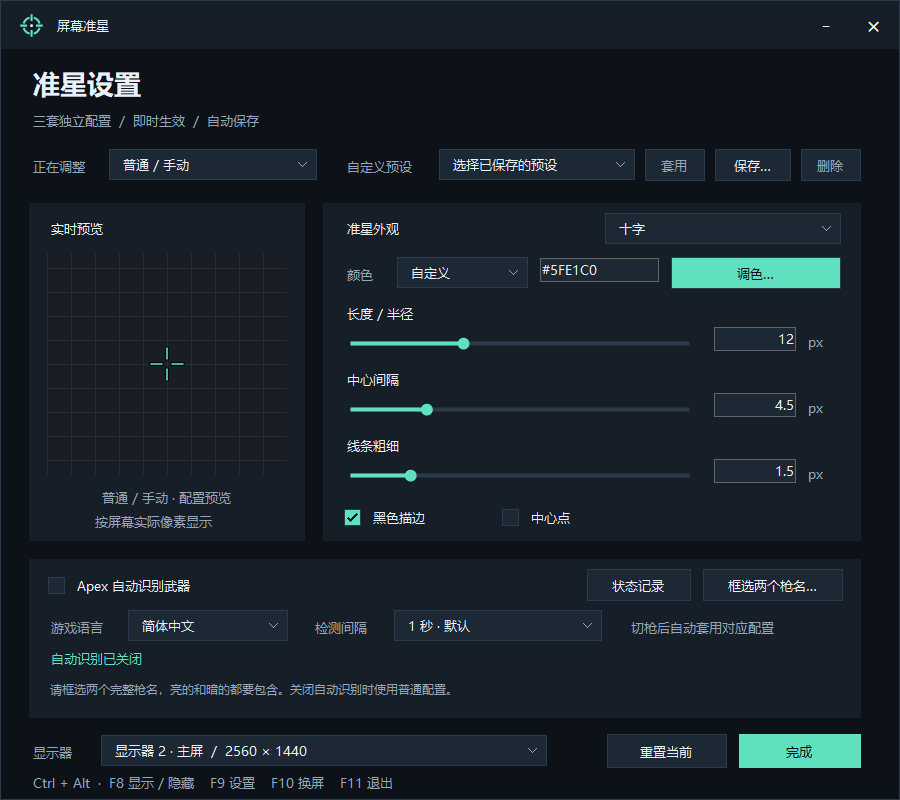
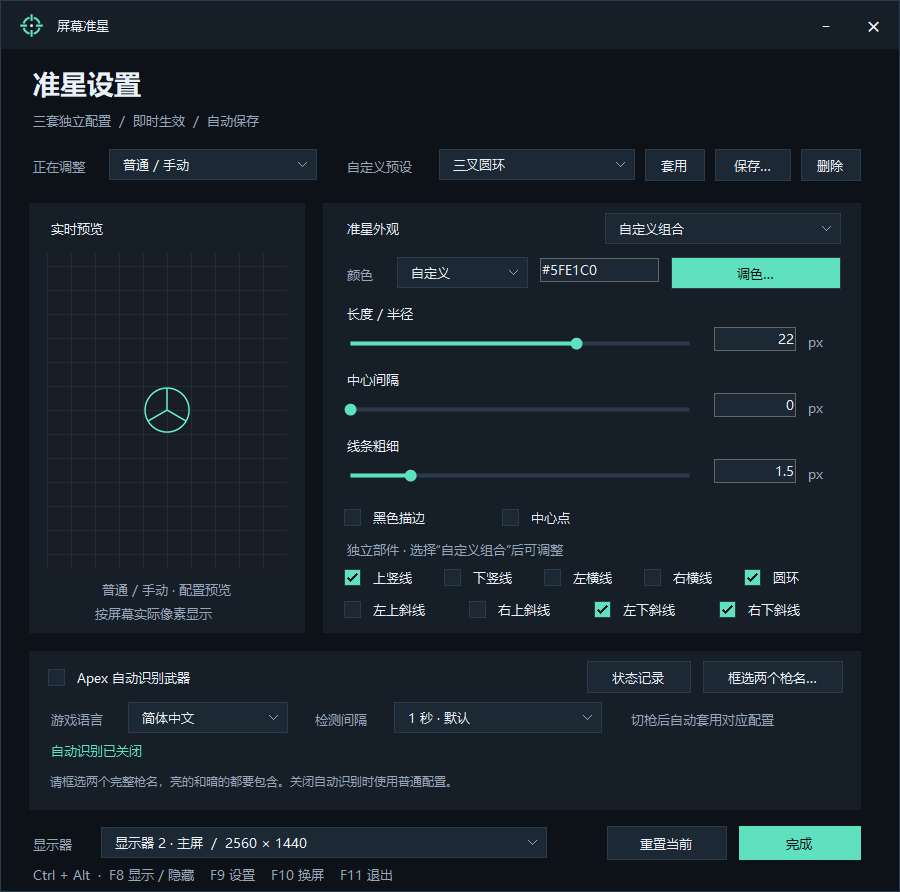
feat: 支持准星部件显隐和奔驰三叉样式

diff --git a/source/SettingsWindow.cs b/source/SettingsWindow.cs
@@ -12,6 +12,9 @@ namespace ScreenCrosshair
         readonly ComboBox profile = new DarkComboBox(), presets = new DarkComboBox(), shape = new DarkComboBox(), color = new DarkComboBox(), monitor = new DarkComboBox(), language = new DarkComboBox(), interval = new DarkComboBox();
         readonly SliderRow length = new SliderRow("长度 / 半径", 2, 32), gap = new SliderRow("中心间隔", 0, 20), thickness = new SliderRow("线条粗细", .1, 8);
         readonly CheckBox outline = new DarkCheckBox(), dot = new DarkCheckBox(), automatic = new DarkCheckBox();
+        readonly CheckBox[] parts = new CheckBox[9];
+        readonly int[] partFlags = { CrosshairParts.Top, CrosshairParts.Bottom, CrosshairParts.Left, CrosshairParts.Right, CrosshairParts.Ring,
+            CrosshairParts.TopLeft, CrosshairParts.TopRight, CrosshairParts.BottomLeft, CrosshairParts.BottomRight };
         readonly TextBox hex = Theme.Input(new Rectangle(481, 84, 104, 28));
         readonly Button pickColor, chooseRegion, deletePreset, applyPreset;
         readonly Label recognitionStatus = new Label(), regionStatus = new Label(), previewTitle = new Label();
@@ -23,8 +26,8 @@ namespace ScreenCrosshair
 
         public SettingsWindow(Overlay owner)
         {
-            overlay = owner; Text = "屏幕准星"; Icon = owner.Icon; ClientSize = new Size(900, 800);
-            var canvas = new Panel { Size = new Size(876, 746), BackColor = Theme.Background }; Body.Controls.Add(canvas);
+            overlay = owner; Text = "屏幕准星"; Icon = owner.Icon; ClientSize = new Size(900, 892);
+            var canvas = new Panel { Size = new Size(876, 838), BackColor = Theme.Background }; Body.Controls.Add(canvas);
             var heading = Theme.Label("准星设置", new Rectangle(26, 15, 540, 38));
             heading.Font = new Font(Font.FontFamily, 20F, FontStyle.Bold); canvas.Controls.Add(heading);
             canvas.Controls.Add(Theme.Label("三套独立配置  /  即时生效  /  自动保存", new Rectangle(28, 58, 600, 26), true));
@@ -41,16 +44,17 @@ namespace ScreenCrosshair
             save.Click += delegate { SavePresetDialog(); };
             deletePreset.Click += delegate { DeletePresetDialog(); };
 
-            var previewCard = Card(canvas, new Rectangle(28, 154, 276, 338));
+            var previewCard = Card(canvas, new Rectangle(28, 154, 276, 430));
             previewCard.Controls.Add(Theme.Label("实时预览", new Rectangle(18, 12, 200, 27)));
-            preview = new Preview(owner.Config) { Bounds = new Rectangle(18, 50, 240, 222) }; previewCard.Controls.Add(preview);
-            previewTitle.Bounds = new Rectangle(18, 283, 240, 23); previewTitle.TextAlign = ContentAlignment.MiddleCenter; previewTitle.ForeColor = Theme.Muted; previewCard.Controls.Add(previewTitle);
-            previewCard.Controls.Add(Theme.Label("按屏幕实际像素显示", new Rectangle(62, 307, 180, 22), true));
+            preview = new Preview(owner.Config) { Bounds = new Rectangle(18, 50, 240, 314) }; previewCard.Controls.Add(preview);
+            previewTitle.Bounds = new Rectangle(18, 375, 240, 23); previewTitle.TextAlign = ContentAlignment.MiddleCenter; previewTitle.ForeColor = Theme.Muted; previewCard.Controls.Add(previewTitle);
+            previewCard.Controls.Add(Theme.Label("按屏幕实际像素显示", new Rectangle(62, 399, 180, 22), true));
 
-            var appearance = Card(canvas, new Rectangle(322, 154, 538, 338));
+            var appearance = Card(canvas, new Rectangle(322, 154, 538, 430));
             appearance.Controls.Add(Theme.Label("准星外观", new Rectangle(20, 12, 200, 27)));
             Theme.Combo(shape, new Rectangle(282, 10, 236, 32), appearance);
-            shape.Items.AddRange(new object[] { "十字", "圆点", "圆环", "圆环＋中心点", "十字（无下方竖线）" });
+            shape.Name = "CrosshairShape";
+            shape.Items.AddRange(new object[] { "十字", "圆点", "圆环", "圆环＋中心点", "十字（无下方竖线）", "自定义组合", "三叉（奔驰）", "X 形" });
             appearance.Controls.Add(Theme.Label("颜色", new Rectangle(20, 57, 48, 28), true));
             Theme.Combo(color, new Rectangle(74, 54, 131, 32), appearance); color.Items.AddRange(Settings.ColorNames); color.Items.Add("自定义");
             hex.Name = "ColorHex"; hex.SetBounds(217, 55, 119, 28); hex.MaxLength = 7; hex.AccessibleName = "自定义颜色 HEX"; appearance.Controls.Add(hex);
@@ -60,7 +64,15 @@ namespace ScreenCrosshair
             outline.Text = "黑色描边"; outline.SetBounds(20, 301, 145, 27); appearance.Controls.Add(outline);
             dot.Text = "中心点"; dot.SetBounds(178, 301, 125, 27); appearance.Controls.Add(dot);
 
-            var autoPanel = Card(canvas, new Rectangle(28, 510, 832, 159));
+            appearance.Controls.Add(Theme.Label("独立部件 · 选择“自定义组合”后可调整", new Rectangle(20, 335, 494, 23), true));
+            string[] partNames = { "上竖线", "下竖线", "左横线", "右横线", "圆环", "左上斜线", "右上斜线", "左下斜线", "右下斜线" };
+            for (int i = 0; i < parts.Length; i++)
+            {
+                var check = new DarkCheckBox { Name = "Part" + partFlags[i], Text = partNames[i], Bounds = new Rectangle(20 + (i < 5 ? i * 100 : (i - 5) * 125), i < 5 ? 361 : 393, i < 5 ? 98 : 120, 26) };
+                parts[i] = check; appearance.Controls.Add(check); check.CheckedChanged += UpdateSettings;
+            }
+
+            var autoPanel = Card(canvas, new Rectangle(28, 602, 832, 159));
             automatic.Text = "Apex 自动识别武器"; automatic.SetBounds(18, 12, 258, 28); autoPanel.Controls.Add(automatic);
             var history = Theme.Button("状态记录", new Rectangle(558, 10, 104, 32)); history.Click += delegate { ShowRecognitionHistory(); }; autoPanel.Controls.Add(history);
             chooseRegion = Theme.Button("框选两个枪名…", new Rectangle(674, 10, 140, 32)); autoPanel.Controls.Add(chooseRegion);
@@ -72,16 +84,28 @@ namespace ScreenCrosshair
             recognitionStatus.SetBounds(18, 90, 796, 28); recognitionStatus.ForeColor = Theme.Accent; autoPanel.Controls.Add(recognitionStatus);
             regionStatus.SetBounds(18, 122, 796, 24); regionStatus.ForeColor = Theme.Muted; regionStatus.Font = new Font(Font.FontFamily, 8.5F); autoPanel.Controls.Add(regionStatus);
 
-            canvas.Controls.Add(Theme.Label("显示器", new Rectangle(28, 689, 66, 28), true));
-            Theme.Combo(monitor, new Rectangle(100, 686, 446, 32), canvas);
-            var reset = Theme.Button("重置当前", new Rectangle(606, 685, 120, 34)); reset.Click += delegate { overlay.Config.ResetProfile(EditingKind); Reload(); overlay.Changed(false); }; canvas.Controls.Add(reset);
-            var done = Theme.Button("完成", new Rectangle(738, 685, 122, 34), true); done.Click += delegate { Close(); }; canvas.Controls.Add(done);
+            canvas.Controls.Add(Theme.Label("显示器", new Rectangle(28, 781, 66, 28), true));
+            Theme.Combo(monitor, new Rectangle(100, 778, 446, 32), canvas);
+            var reset = Theme.Button("重置当前", new Rectangle(606, 777, 120, 34)); reset.Click += delegate { overlay.Config.ResetProfile(EditingKind); Reload(); overlay.Changed(false); }; canvas.Controls.Add(reset);
+            var done = Theme.Button("完成", new Rectangle(738, 777, 122, 34), true); done.Click += delegate { Close(); }; canvas.Controls.Add(done);
             string shortcuts = owner.HotkeyErrors.Count == 0 ? "Ctrl + Alt  ·  F8 显示 / 隐藏    F9 设置    F10 换屏    F11 退出"
                 : "快捷键被占用：" + string.Join("、", owner.HotkeyErrors.ToArray()) + "；请使用托盘菜单。";
-            canvas.Controls.Add(Theme.Label(shortcuts, new Rectangle(28, 722, 825, 23), true));
+            canvas.Controls.Add(Theme.Label(shortcuts, new Rectangle(28, 814, 825, 23), true));
             // The editor selection is independent of whichever profile recognition is displaying in the game.
             profile.SelectedIndexChanged += delegate { if (!loading) Reload(); };
-            shape.SelectedIndexChanged += UpdateSettings; monitor.SelectedIndexChanged += UpdateSettings;
+            shape.SelectedIndexChanged += delegate(object sender, EventArgs args)
+            {
+                if (loading) return;
+                if (shape.SelectedIndex == 5 && EditingStyle.Shape != 5)
+                {
+                    // Start custom editing from the visible template, including the three-spoke angles and forced dot.
+                    CrosshairStyle current = EditingStyle; current.CustomParts = current.PartsForShape(current.Shape);
+                    current.DiagonalAngle = current.AngleForShape(current.Shape);
+                    loading = true; dot.Checked = current.CenterDot || current.Shape == 1 || current.Shape == 3; RefreshParts(current.CustomParts); loading = false;
+                }
+                UpdateSettings(sender, args);
+            };
+            monitor.SelectedIndexChanged += UpdateSettings;
             language.SelectedIndexChanged += UpdateSettings; interval.SelectedIndexChanged += UpdateSettings; automatic.CheckedChanged += UpdateSettings;
             length.ValueChanged += UpdateSettings; gap.ValueChanged += UpdateSettings; thickness.ValueChanged += UpdateSettings;
             outline.CheckedChanged += UpdateSettings; dot.CheckedChanged += UpdateSettings;
@@ -174,11 +198,21 @@ namespace ScreenCrosshair
             loading = false; EnableFields(); preview.Invalidate();
         }
         void EnableFields()
-        { length.Enabled = shape.SelectedIndex != 1; gap.Enabled = shape.SelectedIndex == 0 || shape.SelectedIndex == 4; dot.Enabled = shape.SelectedIndex != 1 && shape.SelectedIndex != 3; }
+        {
+            length.Enabled = shape.SelectedIndex != 1; gap.Enabled = shape.SelectedIndex == 0 || shape.SelectedIndex >= 4;
+            dot.Enabled = shape.SelectedIndex != 1 && shape.SelectedIndex != 3;
+            bool previous = loading; loading = true;
+            RefreshParts(EditingStyle.PartsForShape(EditingStyle.Shape));
+            foreach (CheckBox part in parts) part.Enabled = shape.SelectedIndex == 5;
+            loading = previous;
+        }
+        void RefreshParts(int value)
+        { for (int i = 0; i < parts.Length; i++) parts[i].Checked = (value & partFlags[i]) != 0; }
         void UpdateSettings(object sender, EventArgs args)
         {
             if (loading) return; Settings s = overlay.Config; CrosshairStyle current = EditingStyle;
             current.Shape = shape.SelectedIndex; current.Length = length.Value; current.Gap = gap.Value; current.Thickness = thickness.Value;
+            if (current.Shape == 5) { current.CustomParts = 0; for (int i = 0; i < parts.Length; i++) if (parts[i].Checked) current.CustomParts |= partFlags[i]; }
             current.Outline = outline.Checked; current.CenterDot = dot.Checked;
             s.AutoDetect = automatic.Checked; s.OcrLanguage = language.SelectedIndex == 1 ? "en-US" : "zh-Hans-CN";
             s.ScanInterval = interval.SelectedIndex == 0 ? 500 : interval.SelectedIndex == 2 ? 2000 : 1000;

diff --git a/source/Crosshair.cs b/source/Crosshair.cs
@@ -9,7 +9,7 @@ using System.Windows.Forms;
 using System.Xml.Serialization;
 
 [assembly: System.Reflection.AssemblyTitle("屏幕准星")]
-[assembly: System.Reflection.AssemblyVersion("1.3.0.0")]
+[assembly: System.Reflection.AssemblyVersion("1.3.1.0")]
 
 namespace ScreenCrosshair
 {
@@ -24,6 +24,15 @@ namespace ScreenCrosshair
         [DllImport("user32.dll")] public static extern IntPtr GetForegroundWindow();
     }
 
+    public static class CrosshairParts
+    {
+        public const int Top = 1, Bottom = 2, Left = 4, Right = 8, Ring = 16;
+        public const int BottomLeft = 32, BottomRight = 64, TopLeft = 128, TopRight = 256;
+        public const int Cross = Top | Bottom | Left | Right;
+        public const int Diagonals = BottomLeft | BottomRight | TopLeft | TopRight;
+        public const int All = Cross | Ring | Diagonals;
+    }
+
     public class CrosshairStyle
     {
         public double Length = 8;
@@ -34,6 +43,19 @@ namespace ScreenCrosshair
         public bool Outline = true;
         public bool CenterDot = false;
         public string ColorHex = "";
+        public int CustomParts = CrosshairParts.Cross;
+        public double DiagonalAngle = 45;
+
+        public int PartsForShape(int shape)
+        {
+            if (shape == 5) return CustomParts;
+            if (shape == 6) return CrosshairParts.Top | CrosshairParts.BottomLeft | CrosshairParts.BottomRight;
+            if (shape == 7) return CrosshairParts.Diagonals;
+            if (shape == 4) return CrosshairParts.Top | CrosshairParts.Left | CrosshairParts.Right;
+            if (shape == 2 || shape == 3) return CrosshairParts.Ring;
+            return shape == 0 ? CrosshairParts.Cross : 0;
+        }
+        public double AngleForShape(int shape) { return shape == 6 ? 30 : shape == 5 ? DiagonalAngle : 45; }
 
         [XmlIgnore] public Color ForegroundColor
         {
@@ -42,19 +64,21 @@ namespace ScreenCrosshair
 
         public CrosshairStyle Copy(int shape)
         {
-            return new CrosshairStyle { Length = Length, Gap = Gap, Thickness = Thickness, Shape = shape, ColorIndex = ColorIndex, ColorHex = ColorHex, Outline = Outline, CenterDot = CenterDot };
+            return new CrosshairStyle { Length = Length, Gap = Gap, Thickness = Thickness, Shape = shape, ColorIndex = ColorIndex, ColorHex = ColorHex, Outline = Outline, CenterDot = CenterDot, CustomParts = CustomParts, DiagonalAngle = DiagonalAngle };
         }
 
         public void Apply(CrosshairStyle source)
         {
             Length = source.Length; Gap = source.Gap; Thickness = source.Thickness; Shape = source.Shape;
             ColorIndex = source.ColorIndex; ColorHex = source.ColorHex; Outline = source.Outline; CenterDot = source.CenterDot;
+            CustomParts = source.CustomParts; DiagonalAngle = source.DiagonalAngle;
         }
 
         public bool SameAppearance(CrosshairStyle other)
         {
             return other != null && Length == other.Length && Gap == other.Gap && Thickness == other.Thickness && Shape == other.Shape
-                && ColorIndex == other.ColorIndex && ColorHex == other.ColorHex && Outline == other.Outline && CenterDot == other.CenterDot;
+                && ColorIndex == other.ColorIndex && ColorHex == other.ColorHex && Outline == other.Outline && CenterDot == other.CenterDot
+                && CustomParts == other.CustomParts && DiagonalAngle == other.DiagonalAngle;
         }
 
         static double Dimension(double value, double min, double max, double fallback)
@@ -63,7 +87,8 @@ namespace ScreenCrosshair
         public void ValidateAppearance()
         {
             Length = Dimension(Length, 2, 32, 8); Gap = Dimension(Gap, 0, 20, 4); Thickness = Dimension(Thickness, 0.1, 8, 2);
-            Shape = Math.Max(0, Math.Min(4, Shape)); ColorIndex = Math.Max(0, Math.Min(Settings.Colors.Length - 1, ColorIndex));
+            Shape = Math.Max(0, Math.Min(7, Shape)); ColorIndex = Math.Max(0, Math.Min(Settings.Colors.Length - 1, ColorIndex));
+            CustomParts &= CrosshairParts.All; DiagonalAngle = Dimension(DiagonalAngle, 5, 85, 45);
             Color custom; ColorHex = Settings.TryParseColor(ColorHex, out custom) ? Settings.ToHex(custom) : "";
         }
     }
@@ -116,6 +141,7 @@ namespace ScreenCrosshair
             current.Length = defaults.Length; current.Gap = defaults.Gap; current.Thickness = defaults.Thickness;
             current.Shape = kind == WeaponKind.Shotgun ? 3 : kind == WeaponKind.Sniper ? 4 : 0;
             current.ColorIndex = 0; current.ColorHex = ""; current.Outline = true; current.CenterDot = false;
+            current.CustomParts = defaults.CustomParts; current.DiagonalAngle = defaults.DiagonalAngle;
         }
 
         public static bool TryParseColor(string text, out Color color)
@@ -192,13 +218,11 @@ namespace ScreenCrosshair
             float t = (float)s.Thickness, d = (float)s.Gap, n = (float)s.Length;
             // Keep old integer strokes aligned; fractional dimensions are resolved by alpha coverage in Rasterize.
             float half = t == (int)t ? (int)t / 2 : t / 2;
-            if (shape == 0 || shape == 4)
-            {
-                blocks.Add(new RectangleF(cx - half, cy - d - n, t, n));
-                if (shape != 4) blocks.Add(new RectangleF(cx - half, cy + d, t, n));
-                blocks.Add(new RectangleF(cx - d - n, cy - half, n, t));
-                blocks.Add(new RectangleF(cx + d, cy - half, n, t));
-            }
+            int parts = s.PartsForShape(shape);
+            if ((parts & CrosshairParts.Top) != 0) blocks.Add(new RectangleF(cx - half, cy - d - n, t, n));
+            if ((parts & CrosshairParts.Bottom) != 0) blocks.Add(new RectangleF(cx - half, cy + d, t, n));
+            if ((parts & CrosshairParts.Left) != 0) blocks.Add(new RectangleF(cx - d - n, cy - half, n, t));
+            if ((parts & CrosshairParts.Right) != 0) blocks.Add(new RectangleF(cx + d, cy - half, n, t));
             if (shape == 1 || shape == 3 || s.CenterDot)
             {
                 float size = shape == 1 ? Math.Max(2, t + 2) : t;
@@ -210,9 +234,18 @@ namespace ScreenCrosshair
                 if (s.Outline)
                     foreach (RectangleF r in blocks) { RectangleF edge = r; edge.Inflate(1, 1); g.FillRectangle(Brushes.Black, edge); }
                 foreach (RectangleF r in blocks) g.FillRectangle(color, r);
-                if (shape == 2 || shape == 3)
+                if ((parts & CrosshairParts.Diagonals) != 0)
                 {
-                    float radius = n;
+                    double radians = s.AngleForShape(shape) * Math.PI / 180;
+                    float dx = (float)Math.Cos(radians), dy = (float)Math.Sin(radians);
+                    if ((parts & CrosshairParts.BottomLeft) != 0) Ray(g, color, s.Outline, cx, cy, -dx, dy, d, n, t);
+                    if ((parts & CrosshairParts.BottomRight) != 0) Ray(g, color, s.Outline, cx, cy, dx, dy, d, n, t);
+                    if ((parts & CrosshairParts.TopLeft) != 0) Ray(g, color, s.Outline, cx, cy, -dx, -dy, d, n, t);
+                    if ((parts & CrosshairParts.TopRight) != 0) Ray(g, color, s.Outline, cx, cy, dx, -dy, d, n, t);
+                }
+                if ((parts & CrosshairParts.Ring) != 0)
+                {
+                    float radius = n + ((parts & (CrosshairParts.Cross | CrosshairParts.Diagonals)) != 0 ? d : 0);
                     var circle = new RectangleF(cx - radius, cy - radius, radius * 2, radius * 2);
                     if (s.Outline) using (var edge = new Pen(Color.Black, t + 2)) g.DrawEllipse(edge, circle);
                     using (var pen = new Pen(color, t)) g.DrawEllipse(pen, circle);
@@ -220,10 +253,19 @@ namespace ScreenCrosshair
             }
         }
 
+        static void Ray(Graphics g, Brush color, bool outline, float cx, float cy, float dx, float dy, float gap, float length, float thickness)
+        {
+            float px = -dy * thickness / 2, py = dx * thickness / 2;
+            var points = new[] { new PointF(cx + dx * gap + px, cy + dy * gap + py), new PointF(cx + dx * (gap + length) + px, cy + dy * (gap + length) + py),
+                new PointF(cx + dx * (gap + length) - px, cy + dy * (gap + length) - py), new PointF(cx + dx * gap - px, cy + dy * gap - py) };
+            if (outline) using (var pen = new Pen(Color.Black, 2)) { pen.LineJoin = LineJoin.Miter; g.DrawPolygon(pen, points); }
+            g.FillPolygon(color, points);
+        }
+
         public static Bitmap Rasterize(CrosshairStyle style, int width, int height)
         {
             var result = new Bitmap(width, height, System.Drawing.Imaging.PixelFormat.Format32bppPArgb);
-            bool fractional = style.Length % 1 != 0 || style.Gap % 1 != 0 || style.Thickness % 1 != 0;
+            bool fractional = style.Length % 1 != 0 || style.Gap % 1 != 0 || style.Thickness % 1 != 0 || (style.PartsForShape(style.Shape) & CrosshairParts.Diagonals) != 0;
             using (Graphics target = Graphics.FromImage(result))
             {
                 if (!fractional) Draw(target, style, width / 2, height / 2);

diff --git a/tests/RecognitionTests.cs b/tests/RecognitionTests.cs
@@ -235,6 +235,19 @@ public static class RecognitionTests
             Assert(config.Shotgun.Thickness == 1.25 && config.Shotgun.Length == 12.75 && config.Length == 19, "Applying named preset affects only editor profile");
             sliders[2].Value = 2.5;
             Assert(savedPreset.Style.Thickness == 1.25, "Live edits after applying leave saved preset unchanged");
+            ComboBox shape = Descendants(settings).OfType<ComboBox>().Single(c => c.Name == "CrosshairShape");
+            shape.SelectedIndex = 6;
+            int mercedes = CrosshairParts.Top | CrosshairParts.BottomLeft | CrosshairParts.BottomRight;
+            Assert(config.Shotgun.PartsForShape(config.Shotgun.Shape) == mercedes, "Mercedes template selects three spokes");
+            shape.SelectedIndex = 5;
+            Assert(config.Shotgun.CustomParts == mercedes && config.Shotgun.DiagonalAngle == 30, "Custom mode preserves the selected Mercedes template and angle");
+            CheckBox top = Descendants(settings).OfType<CheckBox>().Single(c => c.Name == "Part1");
+            CheckBox ring = Descendants(settings).OfType<CheckBox>().Single(c => c.Name == "Part16");
+            top.Checked = false; ring.Checked = true;
+            Assert(config.Shotgun.CustomParts == (CrosshairParts.BottomLeft | CrosshairParts.BottomRight | CrosshairParts.Ring) && config.Shape == 0, "Independent UI switches remove one spoke and add ring only to selected profile");
+            CustomPreset customParts = config.SavePreset("自定义部件", config.Shotgun);
+            top.Checked = true;
+            Assert((customParts.Style.CustomParts & CrosshairParts.Top) == 0, "Saved custom parts remain isolated from live switches");
             using (var dialog = new PresetDialog(config, savedPreset))
             {
                 Assert(Descendants(dialog).OfType<Button>().Any(b => b.Text == "更新"), "Existing preset clearly offers update");
@@ -292,6 +305,51 @@ public static class RecognitionTests
         }
         settings.Length = double.NaN; settings.Thickness = double.PositiveInfinity; settings.Gap = -20; settings.Validate();
         Assert(settings.Length == 8 && settings.Thickness == 2 && settings.Gap == 0, "Nonfinite and invalid dimensions safely normalize");
+    }
+
+    static void CustomPartChecks()
+    {
+        var style = new Settings { Shape = 5, Length = 12, Gap = 4, Thickness = 2, Outline = false,
+            CustomParts = CrosshairParts.Top | CrosshairParts.Right, ColorHex = "#33DDCC" };
+        using (Bitmap bitmap = Renderer.Rasterize(style, 128, 128))
+        {
+            Assert(bitmap.GetPixel(64, 55).A == 255 && bitmap.GetPixel(73, 64).A == 255, "Enabled top and right elements render");
+            Assert(bitmap.GetPixel(64, 73).A == 0 && bitmap.GetPixel(55, 64).A == 0, "Disabled bottom and left elements stay transparent");
+        }
+        style.CustomParts = 0;
+        using (Bitmap bitmap = Renderer.Rasterize(style, 128, 128))
+        {
+            bool blank = true;
+            for (int y = 0; y < 128; y++) for (int x = 0; x < 128; x++) blank &= bitmap.GetPixel(x, y).A == 0;
+            Assert(blank, "Turning off every element produces a fully transparent crosshair");
+        }
+        style.CenterDot = true;
+        using (Bitmap bitmap = Renderer.Rasterize(style, 128, 128)) Assert(bitmap.GetPixel(64, 64).A == 255, "Center dot works independently of line elements");
+        style.CenterDot = false; style.CustomParts = CrosshairParts.Ring;
+        using (Bitmap bitmap = Renderer.Rasterize(style, 128, 128)) Assert(bitmap.GetPixel(76, 64).A == 255 && bitmap.GetPixel(64, 64).A == 0, "Ring can be enabled on its own");
+        style.Shape = 6; style.Length = 16;
+        using (Bitmap bitmap = Renderer.Rasterize(style, 128, 128))
+        {
+            Assert(bitmap.GetPixel(64, 54).A > 0 && bitmap.GetPixel(74, 70).A > 0 && bitmap.GetPixel(54, 70).A > 0, "Mercedes has upper spoke and symmetric lower spokes");
+            Assert(bitmap.GetPixel(64, 76).A == 0 && bitmap.GetPixel(74, 58).A == 0, "Mercedes excludes vertical bottom and upper diagonals");
+        }
+        style.Shape = 7;
+        using (Bitmap bitmap = Renderer.Rasterize(style, 128, 128))
+            Assert(bitmap.GetPixel(73, 73).A > 0 && bitmap.GetPixel(55, 55).A > 0 && bitmap.GetPixel(73, 55).A > 0 && bitmap.GetPixel(55, 73).A > 0, "X template renders all four diagonals");
+        style.Shape = 5; style.DiagonalAngle = 30; style.CustomParts = CrosshairParts.Top | CrosshairParts.BottomRight | CrosshairParts.Ring;
+        style.SavePreset("单侧三叉", style);
+        var serializer = new XmlSerializer(typeof(Settings));
+        using (var text = new StringWriter())
+        {
+            serializer.Serialize(text, style);
+            using (var input = new StringReader(text.ToString()))
+            {
+                var restored = (Settings)serializer.Deserialize(input); restored.Validate();
+                Assert(restored.Shape == 5 && restored.CustomParts == style.CustomParts && restored.DiagonalAngle == 30
+                    && restored.CustomPresets[0].Style.CustomParts == style.CustomParts && restored.CustomPresets[0].Style.DiagonalAngle == 30,
+                    "Custom part switches, angles and saved preset survive reload");
+            }
+        }
     }
 
     static async Task WaitFor(Func<bool> condition, string description, int timeout = 7000)
@@ -354,7 +412,7 @@ public static class RecognitionTests
     public static int Main(string[] args)
     {
         Application.EnableVisualStyles(); Application.SetCompatibleTextRenderingDefault(false);
-        try { UnitChecks(); DecimalPresetChecks(); ImagePipeline(); HighlightChecks(); ProfileChecks(); UiChecks(); } catch (Exception e) { Console.Error.WriteLine(e); return 1; }
+        try { UnitChecks(); DecimalPresetChecks(); CustomPartChecks(); ImagePipeline(); HighlightChecks(); ProfileChecks(); UiChecks(); } catch (Exception e) { Console.Error.WriteLine(e); return 1; }
         if (!args.Contains("--interactive")) { Console.WriteLine("SUCCESS: " + checks + " assertions; interactive screen-capture test not requested."); return 0; }
         // The executable is named r5apex solely so the production foreground guard can be tested end to end.
         // All captured pixels belong to this synthetic window; no game process is modified or inspected.

diff --git a/README.md b/README.md
@@ -14,7 +14,8 @@
 - 新增霰弹枪“圆环＋中心点”和狙击枪“去掉下方竖线”样式。
 - 深色设置界面、自定义标题栏与统一图标；托盘图标区分开启和隐藏状态。
 - 调色板与 `#RRGGBB` 自定义颜色；长度、间隔、粗细支持滑块和数字输入，最多保存两位小数。
-- 可命名的自定义预设：保存、更新、套用、删除，重启后保留。
+- 三叉（奔驰）、X 形与自定义组合：单独开关上下左右直线、四个方向斜线、圆环和中心点。
+- 可命名的自定义预设：保存、更新、套用、删除，重启后保留所有部件开关。
 - 普通、霰弹枪、狙击枪三套独立配置，分别保存样式、颜色、长度、间隔、粗细、描边和中心点。
 - 可选的 Apex 局部画面武器识别，自动切换霰弹枪 / 狙击枪 / 普通样式。
 - 多显示器切换，按完整显示器尺寸居中。
@@ -38,7 +39,11 @@
 
 在设置顶部的“正在调整”选择**普通 / 手动、霰弹枪、狙击枪**，再调整该配置的颜色、滑块和样式。左侧预览跟随所选配置；选择编辑对象不会强制切换游戏准星。自动识别确认武器后会使用对应的整套配置，关闭识别或连续识别失败时使用普通配置。“重置当前”只重置正在编辑的那一套。
 
-### 小数尺寸与自定义预设
+### 自定义部件、小数尺寸与预设
+
+在右侧样式下拉框选择“自定义组合”，即可分别开启或隐藏上 / 下 / 左 / 右直线、四个方向的斜线、圆环；“中心点”开关仍可单独调整。所有部件都关闭时准星完全透明。
+
+也可先选“三叉（奔驰）”或“X 形”，再切到“自定义组合”继续修改。三叉模板的三个方向相隔 120°，转换为自定义后保留角度；开启“圆环”可得到三叉圆环。圆环与线条组合时外圈对齐线条末端；“中心间隔”设为 0 可让线条在中心相接。
 
 像素输入框可直接输入 `1.25`、`4.5` 等数值，最多保留两位小数。滑块以 0.1 px 调整，输入框上下键也可微调；长度 / 半径 2–32 px、间隔 0–20 px、粗细 0.1–8 px。无效或越界输入不会覆盖最近的有效值，离开输入框后自动恢复。小数尺寸通过半透明边缘呈现，预览与屏幕准星使用相同绘制结果。
 
@@ -47,7 +52,7 @@
 3. 从下拉框选择已保存预设，点击“套用”，仅修改当前编辑的武器配置。之后继续调整不会改动已保存的预设。
 4. 点击“删除”并确认即可移除所选预设；已经套用到三类配置中的外观会保留。
 
-升级到 v1.3.0 会保留三类配置、显示器和枪名框选范围。退出旧版后再运行新版；退出前已保存的配置继续使用。
+升级到 v1.3.1 会保留三类配置、显示器和枪名框选范围。退出旧版后再运行新版；退出前已保存的配置继续使用。
 
 首次升级到 v1.2.0 时，会将原有共享颜色、尺寸等复制给两套新配置，霰弹枪默认圆环加中心点，狙击枪默认无下方竖线。之后三套互不影响。v1.1.1 已框选的区域和检测间隔会保留，无需重新框选。
 
@@ -92,7 +97,7 @@
 
 ## 验证
 
-v1.3.0 在本机通过 90 项断言，覆盖中英文 OCR、高亮筛选、三套配置迁移与独立保存、小数输入与错误恢复、分数像素透明度、预设快照隔离/更新/删除及重载、编辑/预览/单套重置、识别后选择完整配置和状态记录上限。设置界面已渲染并目视核查；Apex 识别算法未改动，未重复进行实战验收。
+v1.3.1 在本机通过 103 项断言，覆盖中英文 OCR、高亮筛选、三套配置迁移与独立保存、小数输入与错误恢复、分数像素透明度、独立部件显隐、三叉和 X 形几何、自定义转换、预设快照隔离/更新/删除及重载、编辑/预览/单套重置、识别后选择完整配置和状态记录上限。设置界面已渲染并目视核查；Apex 识别算法未改动，未重复进行实战验收。
 
 一张用户提供的 Apex HUD 图片中，左侧暗色“赫姆洛克突击步枪”、右侧亮色“莫桑比克”，在原尺寸和枪名局部放大两种输入下均正确选中莫桑比克。该图片未放入公开仓库。静态图片和合成测试不等同于真实游戏验收，HDR、不同亮度设置及换枪动画仍需实测。
 
